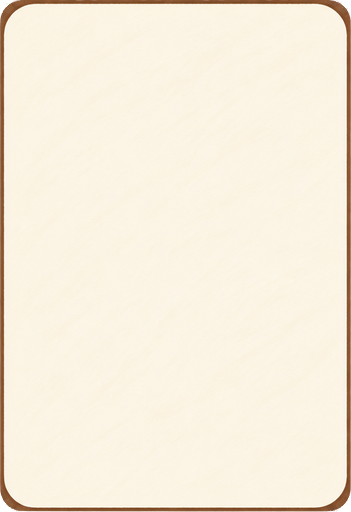
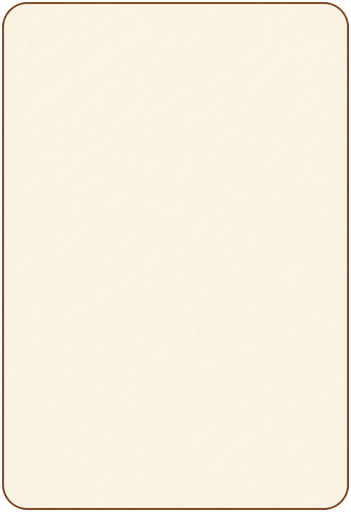
art(settings): 安装绘本细边框并保存制作预览

Changed region(s): [[0.0, 0.0, 1.0, 1.0]]

diff --git a/Docs/UILibrary/themes/PuppyBakery/previews/Settings_BorderFix_v03/prepare_panels.py b/Docs/UILibrary/themes/PuppyBakery/previews/Settings_BorderFix_v03/prepare_panels.py
@@ -1,0 +1,86 @@
+from pathlib import Path
+import hashlib,json,re,shutil
+import numpy as np
+from scipy import ndimage as ndi
+from PIL import Image,ImageDraw,ImageFont
+
+ROOT=Path(__file__).resolve().parents[6]
+THEME=ROOT/'Docs/UILibrary/themes/PuppyBakery'
+WORK=Path(__file__).resolve().parent
+OUT=THEME/'assets/UI/Settings/v03'
+OUT.mkdir(parents=True,exist_ok=True)
+RUNTIME=ROOT/'Assets/Res_Runtime/UI/Settings'
+GEN=Path('C:/Users/Administrator/.codex/generated_images/01a17ca9-ac58-77e0-bbe8-9fa8a10744ea')
+sha=lambda p:hashlib.sha256(p.read_bytes()).hexdigest()
+before={str(p.relative_to(RUNTIME)):sha(p) for p in RUNTIME.rglob('*') if p.is_file()}
+specs=[('PopupPanel.png','exec-820b6899-21e3-441b-aa83-cbfcf11c31a0.png',(351,512),0.6),('PopupPanelInner.png','exec-aa08bde7-28c0-461f-a915-bbd56b7003ae.png',(512,428),0.7)]
+
+def clean(im):
+    a=np.array(im.convert('RGBA'));rgb=a[:,:,:3].astype(int)
+    mask=(a[:,:,3]>160)&(rgb.min(2)<246)&((rgb.max(2)-rgb.min(2))<155)
+    lab,_=ndi.label(ndi.binary_opening(mask));counts=np.bincount(lab.ravel());counts[0]=0
+    mask=ndi.binary_fill_holes(lab==counts.argmax())
+    # Use only the new art's own silhouette. Never reuse the old panel's alpha.
+    a[:,:,3]=np.minimum(a[:,:,3],np.uint8(mask)*255)
+    a[a[:,:,3]==0,:3]=0
+    result=Image.fromarray(a);return result.crop(result.getchannel('A').getbbox())
+
+def nine(im,size,border,target_border=None):
+    sw,sh=im.size;tw,th=size;db=border if target_border is None else target_border
+    sx=[0,border,sw-border,sw];sy=[0,border,sh-border,sh]
+    dx=[0,db,tw-db,tw];dy=[0,db,th-db,th]
+    out=Image.new('RGBA',size)
+    for y in range(3):
+        for x in range(3):
+            tile=im.crop((sx[x],sy[y],sx[x+1],sy[y+1]))
+            tile=tile.resize((dx[x+1]-dx[x],dy[y+1]-dy[y]),Image.Resampling.LANCZOS)
+            out.alpha_composite(tile,(dx[x],dy[y]))
+    return out
+
+def checker(size):
+    out=Image.new('RGB',size,'#e5e1db');d=ImageDraw.Draw(out)
+    for y in range(0,size[1],12):
+        for x in range(0,size[0],12):
+            if (x//12+y//12)%2:d.rectangle((x,y,x+11,y+11),fill='#faf8f3')
+    return out
+
+font=ImageFont.truetype('C:/Windows/Fonts/arial.ttf',20)
+records=[];comparison=Image.new('RGB',(1000,680),'#fffaf1')
+for i,(name,gen,size,ppum) in enumerate(specs):
+    shutil.copy2(GEN/gen,WORK/(name[:-4]+'_master.png'))
+    art=clean(Image.open(GEN/gen));sb=round(min(art.size)*0.12)
+    core=nine(art,(size[0]-4,size[1]-4),sb,26)
+    result=Image.new('RGBA',size);result.alpha_composite(core,(2,2));result.save(OUT/name)
+    a=np.array(result);w,h=size
+    corners=[int(a[y,x,3]) for x,y in [(0,0),(w-1,0),(0,h-1),(w-1,h-1),(5,5),(w-6,5),(5,h-6),(w-6,h-6)]]
+    assert corners==[0]*8
+    # At 28px slice cuts the outline has already become straight.
+    xline=[int(np.flatnonzero(a[y,:,3]>127)[0]) for y in [28,40,h//2,h-41,h-29]]
+    assert max(xline)-min(xline)<=1,(name,xline)
+    record={'file':name,'size':list(size),'mode':'RGBA','alphaBounds':result.getchannel('A').getbbox(),'borderLTRB':[28]*4,'outsideCornerAlpha':corners,'leftEdgeXAtSliceAndMid':xline,'sha256':sha(OUT/name),'generatedMaster':name[:-4]+'_master.png','oldMaskReused':False,'status':'candidate-awaiting-user-image-approval'}
+    records.append(record)
+    for j,im in enumerate([Image.open(RUNTIME/'new'/name).convert('RGBA'),result]):
+        tile=checker((480,270));im=im.copy();im.thumbnail((450,250),Image.Resampling.LANCZOS)
+        tile.paste(im,((480-im.width)//2,(270-im.height)//2),im);comparison.paste(tile,(j*500+10,i*340+35))
+        ImageDraw.Draw(comparison).text((j*500+15,i*340+8),name+(' CURRENT' if j==0 else ' CANDIDATE v03'),font=font,fill='#583c2c')
+
+comparison.save(WORK/'original_vs_candidate_v03.png')
+# Model Unity UI nine-slice corner scaling: fixed border pixels / PPU multiplier.
+preview=Image.new('RGB',(1080,1920),'#dcd5c9')
+outer=nine(Image.open(OUT/'PopupPanel.png').convert('RGBA'),(960,1800),28,round(28/.6))
+preview.paste(outer,(60,60),outer)
+draw=ImageDraw.Draw(preview);draw.text((390,102),'Settings border review',font=font,fill='#583c2c')
+for y,height in [(190,980),(1220,160),(1430,260)]:
+    card=nine(Image.open(OUT/'PopupPanelInner.png').convert('RGBA'),(820,height),28,round(28/.7))
+    preview.paste(card,(130,y),card)
+preview.save(WORK/'nine_slice_portrait_1080x1920.png')
+wide=checker((1200,540))
+for x,width in [(30,380),(440,730)]:
+    im=nine(Image.open(OUT/'PopupPanelInner.png').convert('RGBA'),(width,200),28,40)
+    wide.paste(im,(x,60),im)
+wide.save(WORK/'nine_slice_width_comparison.png')
+after={str(p.relative_to(RUNTIME)):sha(p) for p in RUNTIME.rglob('*') if p.is_file()};assert before==after
+manifest={'date':'2026-10-28','status':'candidate-awaiting-user-image-approval','runtimeReplacementAuthorized':False,'tool':'built-in image_gen','normalization':'Own generated alpha; connected silhouette cleanup; corners normalized to fit28px border;2px transparent canvas margin. Never copy old alpha.','assets':records}
+(OUT/'manifest.json').write_text(json.dumps(manifest,ensure_ascii=False,indent=2),encoding='utf-8')
+(WORK/'verification.json').write_text(json.dumps({'runtimeFilesUnchanged':True,'runtimeSHA256BeforeAndAfter':before,'checks':records,'preview':'offline nine-slice approximation using current0.6/0.7 PPU multipliers; not a Unity render','unityImport':'not run','unityCompile':'not run','playMode':'not run','addressablesBuild':'not run','appBuild':'not run','device':'not run'},ensure_ascii=False,indent=2),encoding='utf-8')
+print(json.dumps({'candidateCount':2,'runtimeUnchanged':True,'checks':records},ensure_ascii=False))
